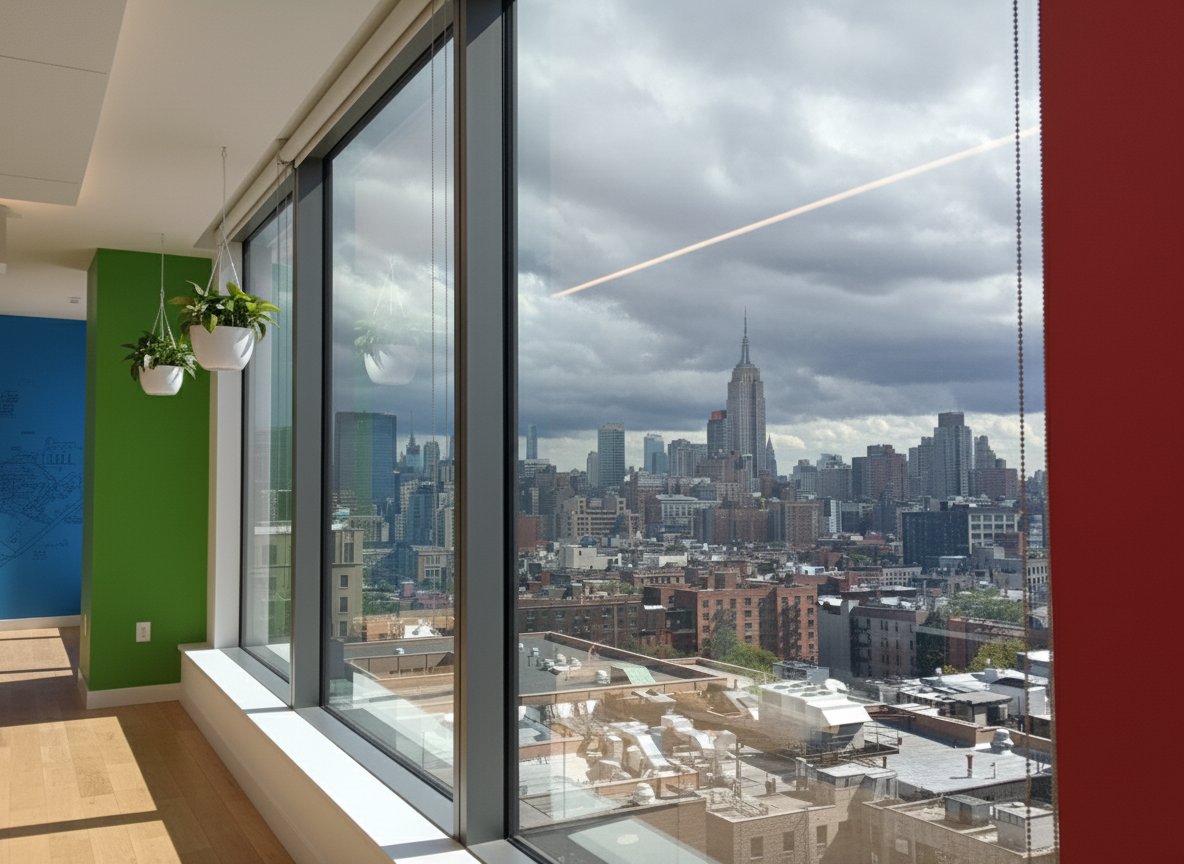
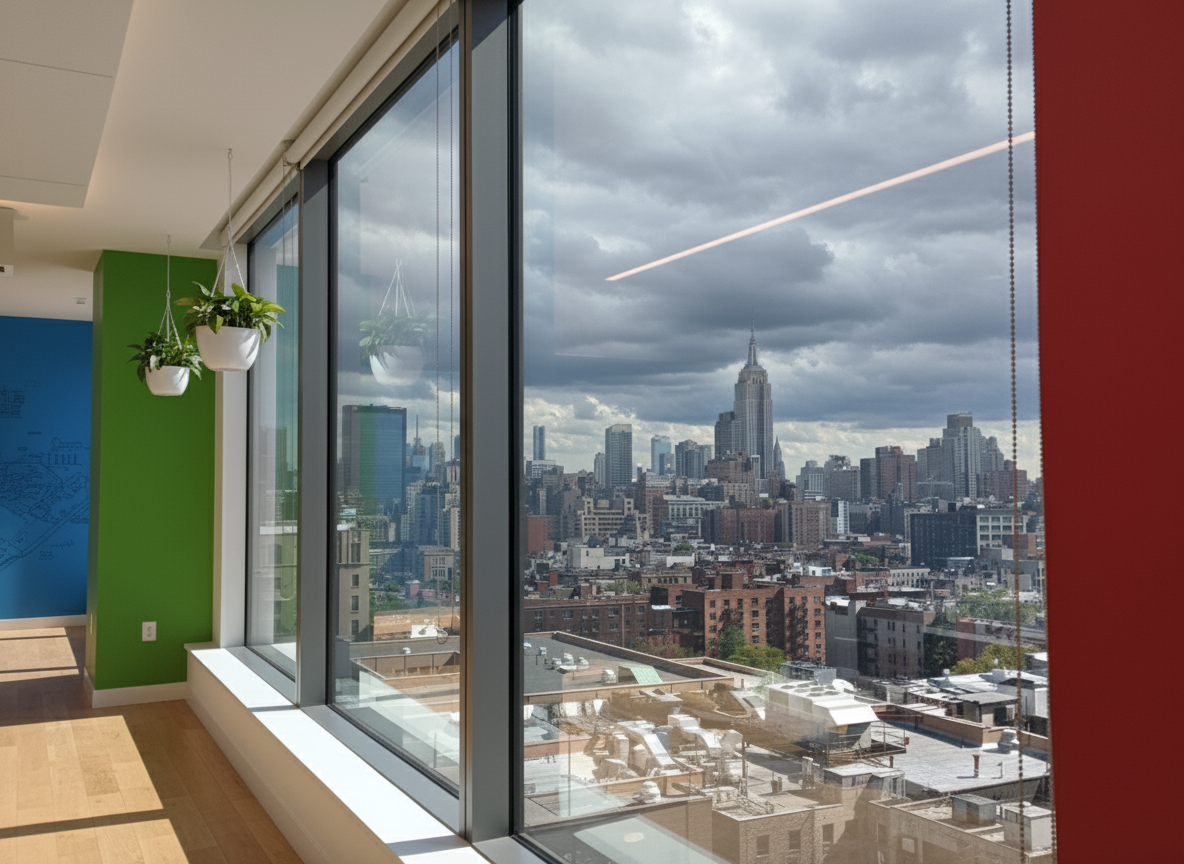
Update current virtual office image

diff --git a/index.html b/index.html
@@ -33,7 +33,7 @@
   </style>
 </head>
 <body>
-  <img src="./virtual-office-current.png?v=1776890946" alt="Current virtual office weather image">
-  <div class="stamp">Last updated: 2026-04-22 13:49 PDT</div>
+  <img src="./virtual-office-current.png?v=1776891689" alt="Current virtual office weather image">
+  <div class="stamp">Last updated: 2026-04-22 14:01 PDT</div>
 </body>
 </html>
